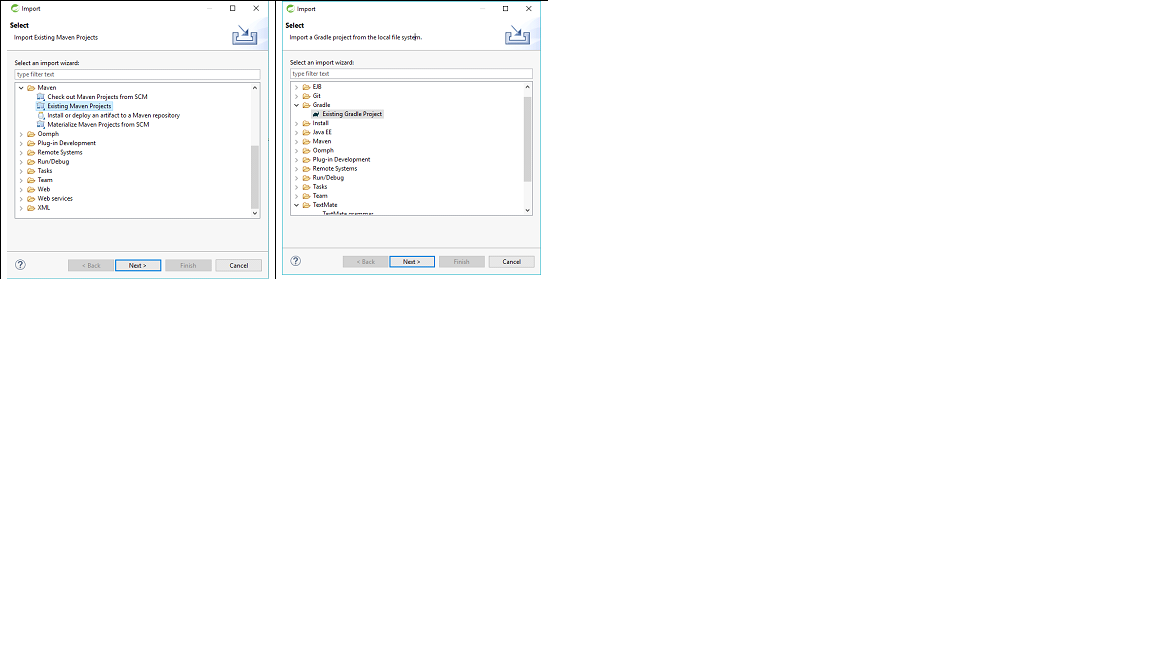
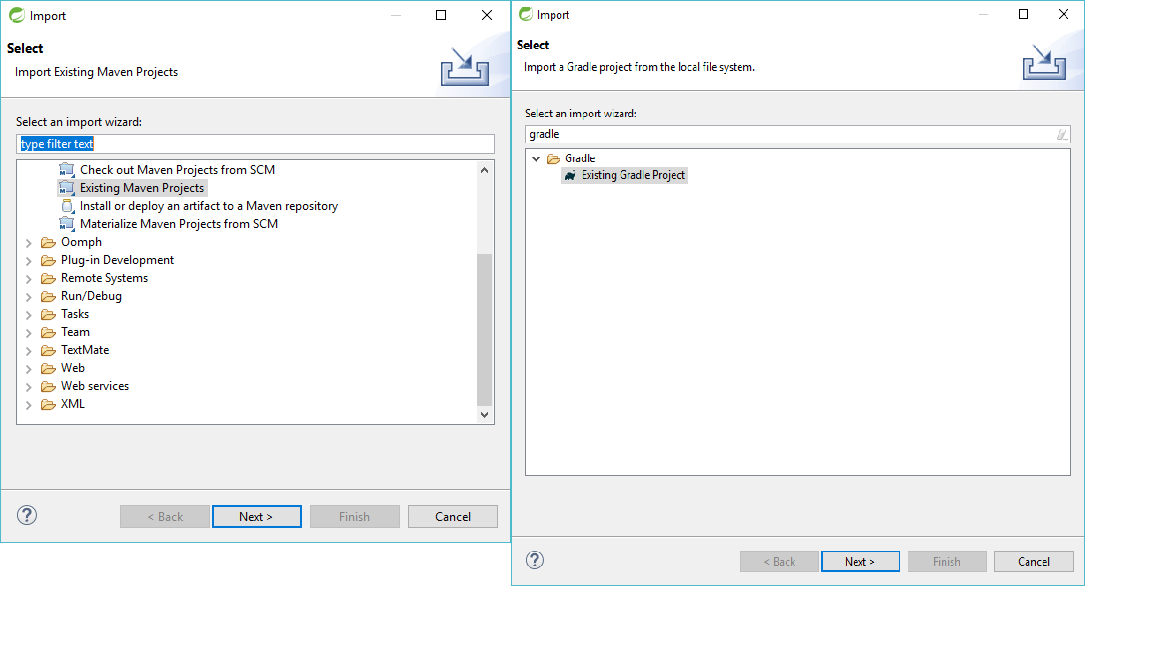
ReadMe.md changes 12,2,3

diff --git a/ReadMe/Solution2.md b/ReadMe/Solution2.md
@@ -1,0 +1,144 @@
+# Problem 3: FILTERING: Show only user’s data:
+
+With the filtering we can make calls using what JHipster offers: the great Swagger!
+
+![](images/sol2image1.png)
+
+The getAllFollow method is where you can find all the filter, for example: followedId.equals (long) that filters the Follow records that have a followedId.equals to the one requested
+
+![](images/sol2image2.png)
+
+Then we modify the follow.routes.ts and add the route that we are going to use in the calls (almost identical to the one we are already using in the Follows list):
+
+1.- I create a link with the queryParams queryParams: 'profileIdEquals': profile.id in /../src/main/webapp/app/entities/profile/profile-detail.component.html
+	
+	<a [routerLink]="['/follow']" [queryParams]="{ 'followedIdEquals': profile.id }" class="list-group-item list-group-item-action justify-content-between">
+
+If we need to change the navbar.component.html:
+
+	<a class="dropdown-item" [routerLink]="['/blog']" [queryParams]="{ 'followedIdEquals': profile.id }" routerLinkActive="active" [routerLinkActiveOptions]="{ exact: true }" (click)="collapseNavbar()">
+	    <fa-icon [icon]="'asterisk'" [fixedWidth]="true"></fa-icon>
+	    <span jhiTranslate="global.menu.entities.blog">Blog</span>
+	</a>
+
+2.- We add the route ../src/main/webapp/app/entities/follow/follow.route.ts
+
+	export const followRoute: Routes = [
+	    {
+	        path: 'follow',
+	        component: FollowComponent,
+	        resolve: {
+	            pagingParams: JhiResolvePagingParams
+	        },
+	        data: {
+	            authorities: ['ROLE_USER'],
+	            defaultSort: 'id,asc',
+	            pageTitle: 'jhipsterPress06App.follow.home.title'
+	        },
+	        canActivate: [UserRouteAccessService]
+	    },
+	    {
+	        path: 'follow?followedId.equals=:id',
+	        component: FollowComponent,
+	        resolve: {
+	            pagingParams: JhiResolvePagingParams
+	        },
+	        data: {
+	            authorities: ['ROLE_USER'],
+	            defaultSort: 'id,asc',
+	            pageTitle: 'jhipsterPress06App.follow.home.title'
+	        },
+	        canActivate: [UserRouteAccessService]
+	    },
+	    {
+	        path: 'message?profileId.equals=:id',
+	        component: MessageComponent,
+	        resolve: {
+	            pagingParams: JhiResolvePagingParams
+	        },
+	        data: {
+	            authorities: ['ROLE_USER'],
+	            defaultSort: 'id,asc',
+	            pageTitle: 'jhipsterPress06App.message.home.title'
+	        },
+	        canActivate: [UserRouteAccessService]
+	    },
+
+3.- We add the Params in the /src/main/webapp/app/entities/follow/follow.component.ts
+
+	    constructor(
+        private followService: FollowService,
+        private parseLinks: JhiParseLinks,
+        private jhiAlertService: JhiAlertService,
+        private principal: Principal,
+        private activatedRoute: ActivatedRoute,
+        private router: Router,
+        private eventManager: JhiEventManager
+    ) {
+        this.itemsPerPage = ITEMS_PER_PAGE;
+        this.routeData = this.activatedRoute.data.subscribe(data => {
+            this.page = data.pagingParams.page;
+            this.previousPage = data.pagingParams.page;
+            this.reverse = data.pagingParams.ascending;
+            this.predicate = data.pagingParams.predicate;
+        });
+        this.activatedRoute.queryParams.subscribe( params => {
+            if (params.followedIdEquals != null) {
+                this.nameParamFollows = 'followedId.equals';
+                this.valueParamFollows = params.followedIdEquals;
+            }
+            if (params.followingIdEquals != null) {
+                this.nameParamFollows = 'followingId.equals';
+                this.valueParamFollows = params.followingIdEquals;
+            }
+        });
+    }
+	
+4.- We use it in the Query:
+
+    loadAll() {
+        const query = {
+                page: this.page - 1,
+                size: this.itemsPerPage,
+                sort: this.sort()
+            };
+        query[this.nameParamFollows] = this.valueParamFollows;
+        this.followService
+            .query(query)
+            .subscribe(
+                (res: HttpResponse<IFollow[]>) => this.paginateFollows(res.body, res.headers),
+                (res: HttpErrorResponse) => this.onError(res.message)
+            );
+    }
+
+We do the same in 
+
+Blog  Community  User 
+* Post  Profile  User 
+* Message  Community, Profile  User 
+* Notification  User 
+* BlockedUser  Community  User 
+* Community  User  
+* Profile  User 
+* Album  User 
+* Calbum  Community  User
+
+Photo is a more complex example.
+
+The Edit & Delete button have the following filtering:
+
+	<button *ngIf="owner === photo?.calbum?.community?.user?.id || owner === photo?.album?.user?.id || isAdmin == true"
+
+To get the mesages (/webapp/app/entities/photo/photo.component.ts) we have to take to paths:
+
+1) User  Community  Calbum  Photo and 
+2) User  Album  Photo. 
+
+The first path starts with a call to myPhotos method that fetchs the Communities that belong to the logged user and then calls communitiesCalbums that fetchs the Calbums for each community calling photoCommunitiesCalbums and bringing the photos that belong to them. 
+
+After that it starts the second path calling myUserAlbums and fetching the Albums of the loggedUser and calling myUserAlbumsPhotos to bring the Photos of each Album.
+
+At this point, both arrays get together: the ones from res.body with the path2 (this.photos). 
+
+
+

diff --git a/ReadMe/Solution3.md b/ReadMe/Solution3.md
@@ -1,0 +1,85 @@
+# Problem 2: List screen shows only user’s data:
+
+Let's see how to show only the user's data in the component.PROFILE.html screen (list):
+
+1.- We create and IF to see if the user is an ADMIN (show everything) or a USER (profileService.findByUserIsCurrentUser(pageable);) 
+ 
+	src/main/java/com/raro/webh2memoryin/web/rest/ProfileResource.java
+	
+	/**
+	 * GET  /profiles : get all the profiles.
+	 *
+	 * @param pageable the pagination information
+	 * @return the ResponseEntity with status 200 (OK) and the list of profiles in body
+	 */    
+	 @GetMapping("/profiles")
+	 @Timed
+	 public ResponseEntity<List<ProfileDTO>> getAllProfiles(Pageable pageable) {
+	    log.debug("REST request to get a page of Profiles");
+	    Page<ProfileDTO> page;
+	      	if (SecurityUtils.isCurrentUserInRole(AuthoritiesConstants.ADMIN)) {
+	       		page = profileService.findAll(pageable);
+	       	} else {
+	       		page = profileService.findByUserIsCurrentUser(pageable);
+	       	}
+	    HttpHeaders headers = PaginationUtil.generatePaginationHttpHeaders(page, "/api/profiles");
+	    return new ResponseEntity<>(page.getContent(), headers, HttpStatus.OK);
+	    }
+
+
+If we are not using ServiceImpl we would go directly to the repository and do the same:
+
+    @GetMapping("/profiles")
+    @Timed
+    public ResponseEntity<List<Profile>> getAllProfiles(Pageable pageable) {
+        log.debug("REST request to get a page of Profiles");
+        Page<Profile> page;
+        
+      	if (SecurityUtils.isCurrentUserInRole(AuthoritiesConstants.ADMIN)) {
+       		page = profileRepository.findAll(pageable);
+       	} else {
+       		page = profileRepository.findByUserIsCurrentUser(pageable);
+       	}
+
+        HttpHeaders headers = PaginationUtil.generatePaginationHttpHeaders(page, "/api/profiles");
+        return new ResponseEntity<>(page.getContent(), headers, HttpStatus.OK);
+    }
+
+2.- Go to the src/main/java/com/raro/web/service/impl/ProfileServiceImpl.java and create the method
+	
+	@Override
+	@Transactional(readOnly = true)
+	public Page<ProfileDTO> findByUserIsCurrentUser(Pageable pageable) {
+		// TODO Auto-generated method stub
+		//		return null;
+		log.debug("Request to get all Users' Profiles");
+		Page<Profile> result = profileRepository.findByUserIsCurrentUser(pageable);
+	       return result.map(profileMapper::toDto);
+	}
+
+
+3.- Change the repository src/main/java/com/raro/web/repository/ProfileRepository.java:
+
+	/**
+	 * Spring Data JPA repository for the Profile entity.
+	 */
+	@SuppressWarnings("unused")
+	@Repository
+	public interface ProfileRepository extends JpaRepository<Profile, Long> {
+	
+	@Query("select profile from Profile profile where profile.user.login = ?#{principal.username}")
+	Page<Profile> findByUserIsCurrentUser(Pageable pageable);
+	
+OR: 
+
+	@Query("select profile from Profile profile where profile.user.login = ?#{principal.username} order by profile.date desc")
+	Page<Profile> findByUserIsCurrentUser(Pageable pageable);
+
+
+Without ServiceImpl:
+
+    @Query("select profile from Profile profile where profile.user.login = ?#{principal.username}")
+    Page<Profile> findByUserIsCurrentUser(Pageable pageable);
+
+
+VIDEO HELP: https://www.youtube.com/watch?v=7okYI6ijUz8&t=11s&list=PLP8n25bNfkdcGTINO2ZJXnzvMGK3nm3zY&index=6 

diff --git a/README.md b/README.md
@@ -3,7 +3,7 @@
 
 First, I would like to thank Jon Rudell https://github.com/ruddell 
 
-Without his help, this would have not been possible!
+Without his help, this would not have been possible!
 
 ![](ReadMe/homepage.png)
 
@@ -35,33 +35,47 @@ To get an idea of the entities and fields start by taking a look and understandi
 
 All of them will be explained in the READMEs directory 
 
-BEGGINERS:
+STARTERS:
 
 * [How to import your project in STS Maven - Gradle:](ReadMe/Solution12.md)
 * [How to import a template like UNIFY for your project:](ReadMe/Solution14.md)
 
-INTERMEDIATE:
+BEGGINERS:
 
 * [How to open access to the REST Api:](ReadMe/Solution1.md)
+* [List screen shows only user’s data:](ReadMe/Solution2.md)
+* [Create a new Authority:](ReadMe/Solution9.md)
+* [How to connect PGAdmin4 to Heroku:](ReadMe/Solution10.md)
+* [How to Configure the confirmation email in Heroku:](ReadMe/Solution11.md)
+
+INTERMEDIATE:
+
 * [How to change H2 Database from In-memory to Disk:](ReadMe/Solution5.md)
 * [How to change DTOs with MapStruct:](ReadMe/Solution6.md)
 * [Translations: Text and Enums:](ReadMe/Solution7.md)
 * [Entity with double relation to another entity:](ReadMe/Solution8.md)
-* [Create a new Authority:](ReadMe/Solution9.md)
-* [How to connect PGAdmin4 to Heroku:](ReadMe/Solution10.md)
-* [How to Configure the confirmation email in Heroku:](ReadMe/Solution11.md)
+
+ADVANCED:
+
 * Different ways to block un-authorized code
 * Cascade deletion
 
+ADVANCED:
+
+* [How to use Filtering to show user's data only:](ReadMe/Solution3.md)
 
 * And more that we will find.
 
 # DOWNLOAD & DATA INSERTIONS:
 
-Once you download and follow the JHipster instructions, you will need to fill the database with data. Use the [InsertsInPOSTGRESQLDatabaseV8BLANK.txt](InsertsInPOSTGRESQLDatabaseV?BLANK.txt) file in the root path with your H2 database and restart the App. You should see a HomePage like this.!
+Once you download and follow the JHipster instructions, you will need to fill the database with data. Use the InsertsInPOSTGRESQLDatabaseV?BLANK.txt file in the root path with your H2 database and restart the App. 
 
 
-# JHIPSTER INFO
+
+
+
+
+# REGULAR JHIPSTER INFO
 
 ## Jhipster Version
 

diff --git a/ReadMe/Solution12.md b/ReadMe/Solution12.md
@@ -9,3 +9,7 @@ and importing them as a Maven or Gradle project in your IDE:
 ![](images/sol12image1.png)
 
 Follow the instructions of your IDE or watch one of the many Youtube videos.
+
+https://www.google.es/search?q=how+to+import+maven+project+sts&rlz=1C1EJFA_enES793ES793&source=lnms&tbm=vid&sa=X&ved=0ahUKEwiJtYXxxNbdAhXlqIsKHfyUCwcQ_AUICigB&biw=1038&bih=533
+
+https://www.google.es/search?rlz=1C1EJFA_enES793ES793&biw=1038&bih=533&tbm=vid&ei=T12qW6SWEKGRrgSPm5PwCA&q=how+to+import+gradle+project+sts&oq=how+to+import+gradle+project+sts&gs_l=psy-ab.3..0i8i30k1.31447.33541.0.34099.8.8.0.0.0.0.256.898.0j4j1.5.0....0...1c.1.64.psy-ab..4.4.776...0i8i7i30k1j0i8i13i30k1.0.johYJZU8-5A
